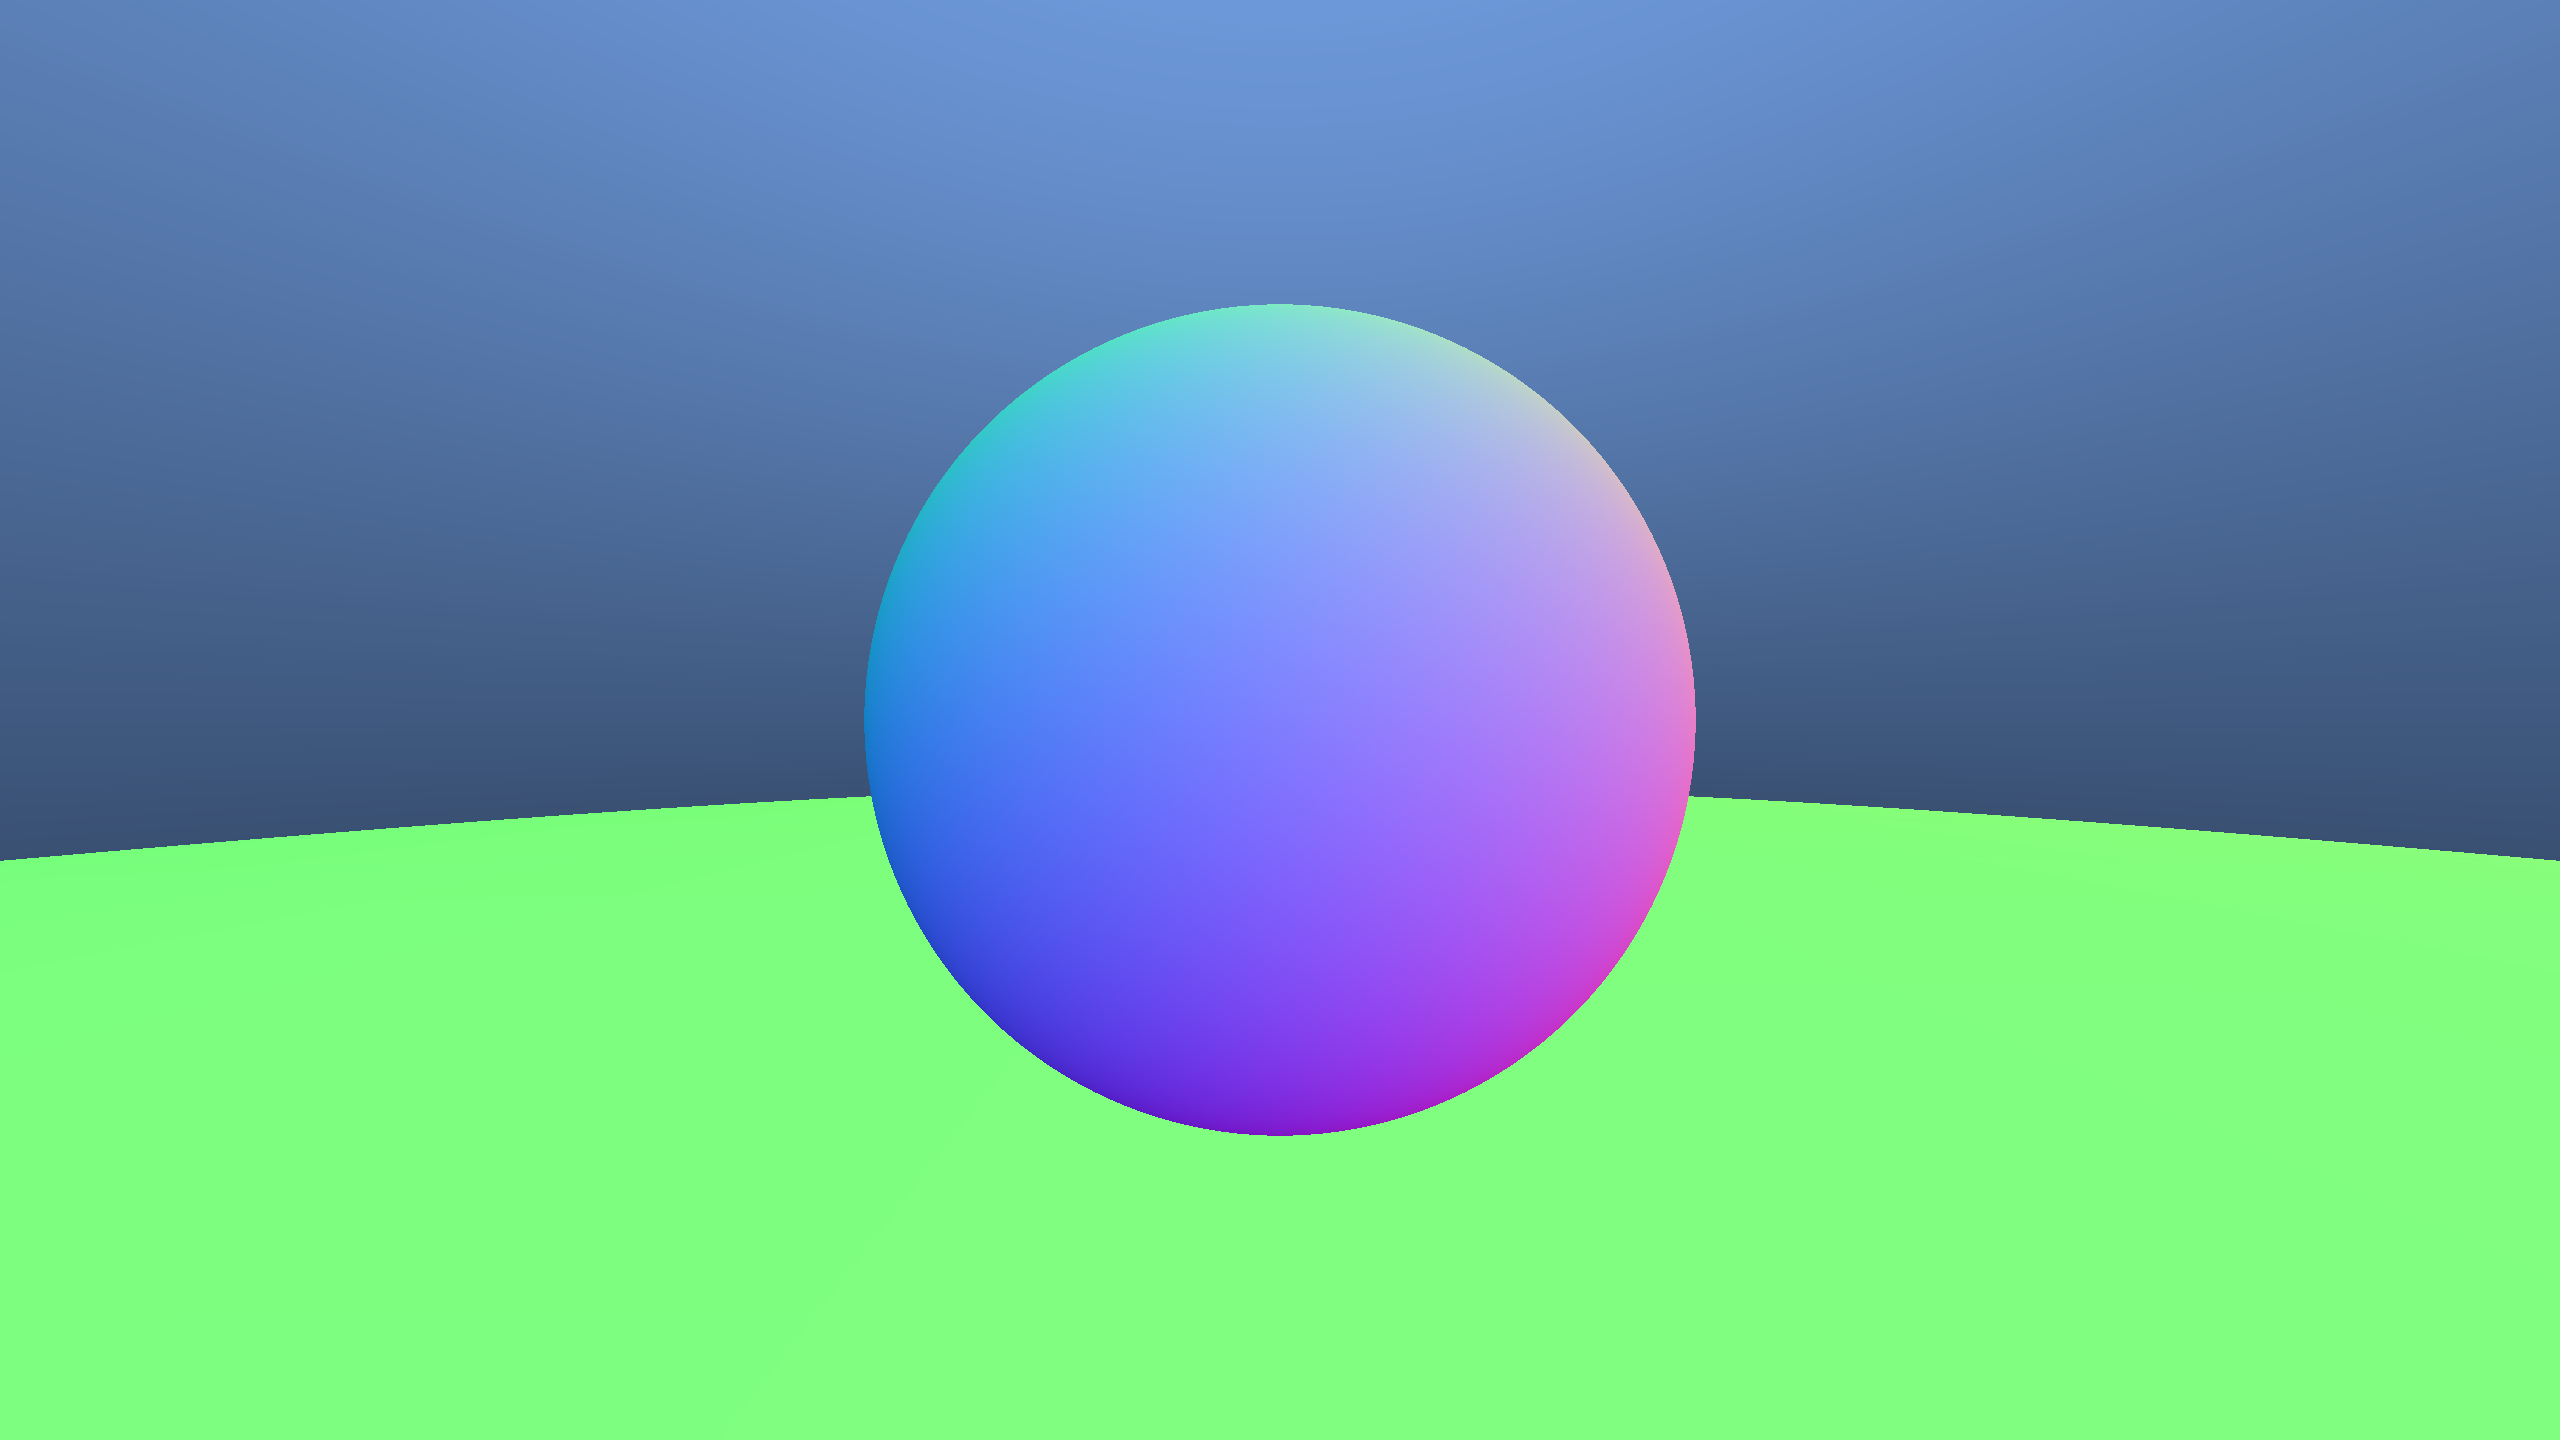
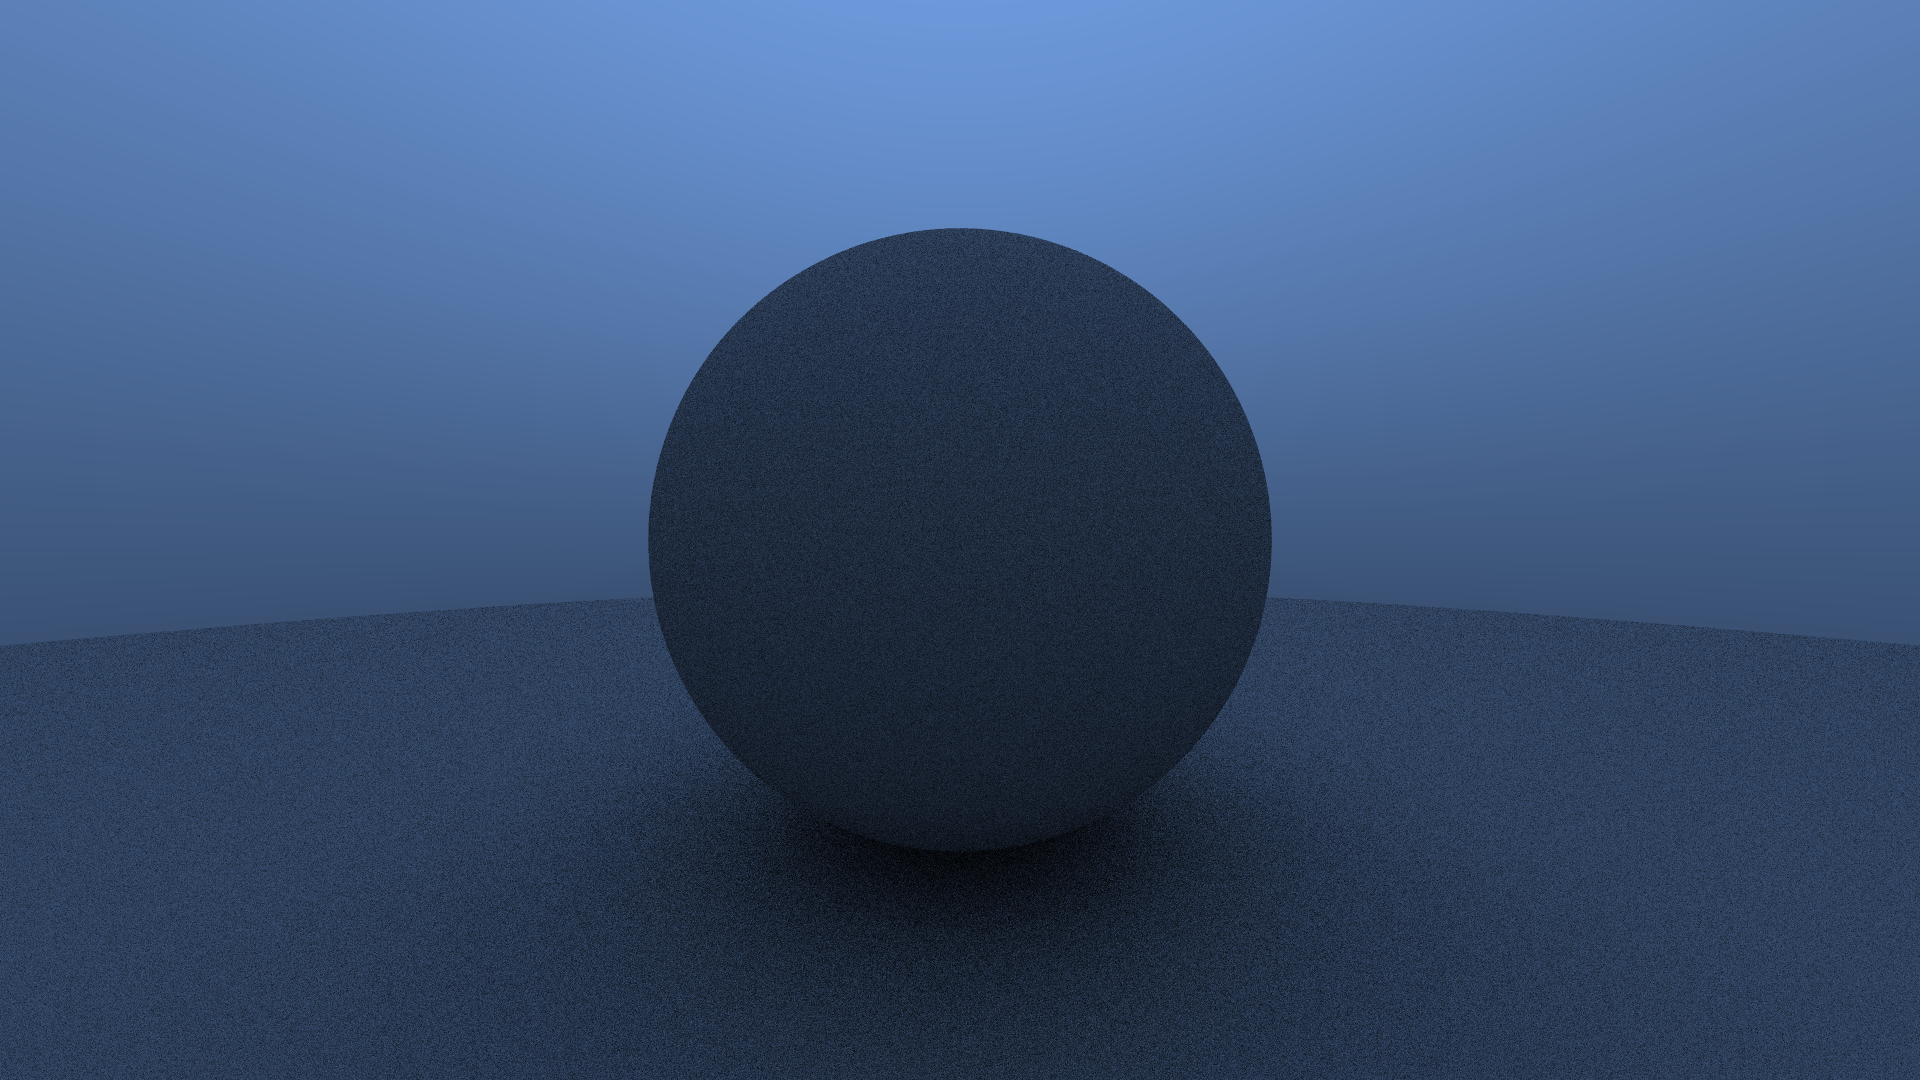
Added diffuse rendering with Lambertian distribution

diff --git a/RaytracerTutorial/Source/Utility.hpp b/RaytracerTutorial/Source/Utility.hpp
@@ -7,21 +7,71 @@
 #include <limits>
 #include <memory>
 #include <numbers>
+#include <random>
 #include <string>
 #include <vector>
 
 #include <glm/glm.hpp>
+#include <glm/gtx/norm.hpp>
 
 #include "Ray.hpp"
 
-constexpr float degToRad(float degs)
+constexpr float degreesToRadians(float degs)
 {
 	return degs * std::numbers::pi / 180.0f;
 }
 
-constexpr float radToDeg(float rads)
+constexpr float radiansToDegrees(float rads)
 {
 	return rads * 180.0f / std::numbers::pi;
+}
+
+inline float randomFloat()
+{
+	static std::uniform_real_distribution<float> dist(0.0f, 1.0f);
+	static std::mt19937 gen;
+	return dist(gen);
+}
+
+inline double randomFloat(float min, float max)
+{
+	return min + (max - min) * randomFloat();
+}
+
+inline glm::vec3 randomVec3()
+{
+	return glm::vec3{ randomFloat(), randomFloat(), randomFloat() };
+}
+
+inline glm::vec3 randomVec3(float min, float max)
+{
+	return glm::vec3{ randomFloat(min, max), randomFloat(min, max), randomFloat(min, max) };
+}
+
+inline glm::vec3 randomUnitVec3()
+{
+	glm::vec3 point = randomVec3(-1.0f, 1.0f);
+	float lenSquared = std::numeric_limits<float>::infinity();
+	while (lenSquared < 1e-18f || lenSquared > 1.0f)
+	{
+		glm::vec3 point = randomVec3(-1.0f, 1.0f);
+		lenSquared = point.x * point.x + point.y * point.y + point.z * point.z;
+	}
+
+	return point / std::sqrtf(lenSquared);
+}
+
+inline glm::vec3 randomOnHemisphere(const glm::vec3& norm)
+{
+	glm::vec3 point = randomUnitVec3();
+	if (glm::dot(norm, point) > 0.0f)
+	{
+		return point;
+	}
+	else
+	{
+		return -point;
+	}
 }
 
 class Interval
@@ -45,6 +95,15 @@ public:
 	float surrounds(float val) const
 	{
 		return val > min && val < max;
+	}
+
+	float clamp(float val) const
+	{
+		if (val < min)
+			return min;
+		if (val > max)
+			return max;
+		return val;
 	}
 
 	static const Interval empt, univ;

diff --git a/RaytracerTutorial/Source/Camera.cpp b/RaytracerTutorial/Source/Camera.cpp
@@ -10,20 +10,18 @@ void Camera::render(const Hittable& world)
 	{
 		for (uint32_t j = 0; j < imageWidth; j++)
 		{
-			float y = rayInitY + rayDeltaY * i;
-			float x = rayInitX + rayDeltaX * j;
-			float z = -1.0f;
+			glm::vec3 pixCol{ 0.0f, 0.0f, 0.0f };
+			for (uint32_t k = 0; k < sampsPerPix; k++)
+			{
+				Ray ray = getRay(i, j);
+				pixCol += rayColor(ray, maxDepth, world);
+			}
+			pixCol *= pixSampsScale;
 
-			glm::vec3 viewportPos = glm::vec3(x, y, z);
-			// std::cout << x << " " << y << " " << z << std::endl;
-			Ray ray = Ray(pos, viewportPos - pos);
-
-			glm::vec3 color = rayColor(ray, world);
-
-			writeColor(imageData, glm::vec3(color.x, color.y, color.z));
+			writeColor(imageData, pixCol);
 		}
 
-		uint32_t hundredth = static_cast<uint32_t>(imageHeight / 100.0f);
+		uint32_t hundredth = static_cast<uint32_t>(std::max(imageHeight / 100.0f, 1.0f));
 		if ((i + 1) % hundredth == 0)
 		{
 			std::cout << "Progress: " << std::fixed << std::setprecision(3) << static_cast<float>(i + 1) / imageHeight << std::endl;
@@ -49,16 +47,32 @@ void Camera::init()
 	rayInitY = viewportHeight / 2.0f + 0.5f * rayDeltaY;
 }
 
-glm::vec3 Camera::rayColor(const Ray& ray, const Hittable& world) const
+Ray Camera::getRay(uint32_t i, uint32_t j) const
 {
+	glm::vec3 offs = sampleSquare();
+	glm::vec3 pixSamp{ rayInitX + (j + offs.x) * rayDeltaX, rayInitY + (i + offs.y) * rayDeltaY, pos.z - 1.0f };
+
+	return Ray{ pos, pixSamp - pos };
+}
+
+glm::vec3 Camera::sampleSquare() const
+{
+	return glm::vec3{ randomFloat() - 0.5f, randomFloat() - 0.5f, 0.0f };
+}
+
+glm::vec3 Camera::rayColor(const Ray& ray, uint32_t depth, const Hittable& world) const
+{
+	if (depth <= 0)
+	{
+		return glm::vec3(0.0f, 0.0f, 0.0f);
+	}
+
 	HitRecord hitRec;
-	bool hit = world.hit(ray, Interval{ 0.0f, std::numeric_limits<float>::infinity() }, hitRec);
+	bool hit = world.hit(ray, Interval{ 0.001f, std::numeric_limits<float>::infinity() }, hitRec);
 	if (hit)
 	{
-		glm::vec3 norm = hitRec.norm;
-		norm *= 0.5f;
-		norm += 0.5f;
-		return norm;
+		glm::vec3 dir = hitRec.norm + randomUnitVec3();
+		return 0.5f * rayColor(Ray{ hitRec.point, dir }, depth - 1, world);
 	}
 
 	glm::vec3 unitDir = glm::normalize(ray.getDir());
@@ -67,9 +81,10 @@ glm::vec3 Camera::rayColor(const Ray& ray, const Hittable& world) const
 	return (1.0f - a) * glm::vec3(0.0f, 0.0f, 0.0f) + a * glm::vec3(0.5f, 0.7f, 1.0f);
 }
 
-void Camera::writeColor(std::vector<uint8_t>& imageData, glm::vec3 color)
+void Camera::writeColor(std::vector<uint8_t>& imageData, const glm::vec3& color)
 {
-	imageData.push_back(static_cast<uint8_t>(color.x * 255.0f));
-	imageData.push_back(static_cast<uint8_t>(color.y * 255.0f));
-	imageData.push_back(static_cast<uint8_t>(color.z * 255.0f));
+	static const Interval intens{0.0f, 0.999f};
+	imageData.push_back(static_cast<uint8_t>(256.0f * intens.clamp(color.r)));
+	imageData.push_back(static_cast<uint8_t>(256.0f * intens.clamp(color.g)));
+	imageData.push_back(static_cast<uint8_t>(256.0f * intens.clamp(color.b)));
 }

diff --git a/RaytracerTutorial/Source/Camera.hpp b/RaytracerTutorial/Source/Camera.hpp
@@ -12,8 +12,11 @@ public:
 	uint32_t imageWidth = 2560;
 	uint32_t imageHeight = 1440;
 	float aspectRatio;
+	uint32_t sampsPerPix = 10;
+	uint32_t maxDepth = 10;
+	float pixSampsScale = 1.0f / sampsPerPix;
 
-	glm::vec3 pos{0.0f, 0.0f, 0.0f};
+	glm::vec3 pos{ 0.0f, 0.0f, 0.0f };
 
 	float rayDeltaX;
 	float rayDeltaY;
@@ -23,6 +26,8 @@ public:
 	std::vector<uint8_t> imageData;
 private:
 	void init();
-	glm::vec3 rayColor(const Ray& ray, const Hittable& world) const;
-	void writeColor(std::vector<uint8_t>& imageData, glm::vec3 color);
+	Ray getRay(uint32_t i, uint32_t j) const;
+	glm::vec3 sampleSquare() const;
+	glm::vec3 rayColor(const Ray& ray, uint32_t depth, const Hittable& world) const;
+	void writeColor(std::vector<uint8_t>& imageData, const glm::vec3& color);
 };

diff --git a/RaytracerTutorial/Source/Main.cpp b/RaytracerTutorial/Source/Main.cpp
@@ -28,8 +28,8 @@ int main()
 
 	Camera cam;
 
-	cam.imageWidth = 2560;
-	cam.imageHeight = 1440;
+	cam.imageWidth = 1920;
+	cam.imageHeight = 1080;
 
 	cam.render(world);
 	